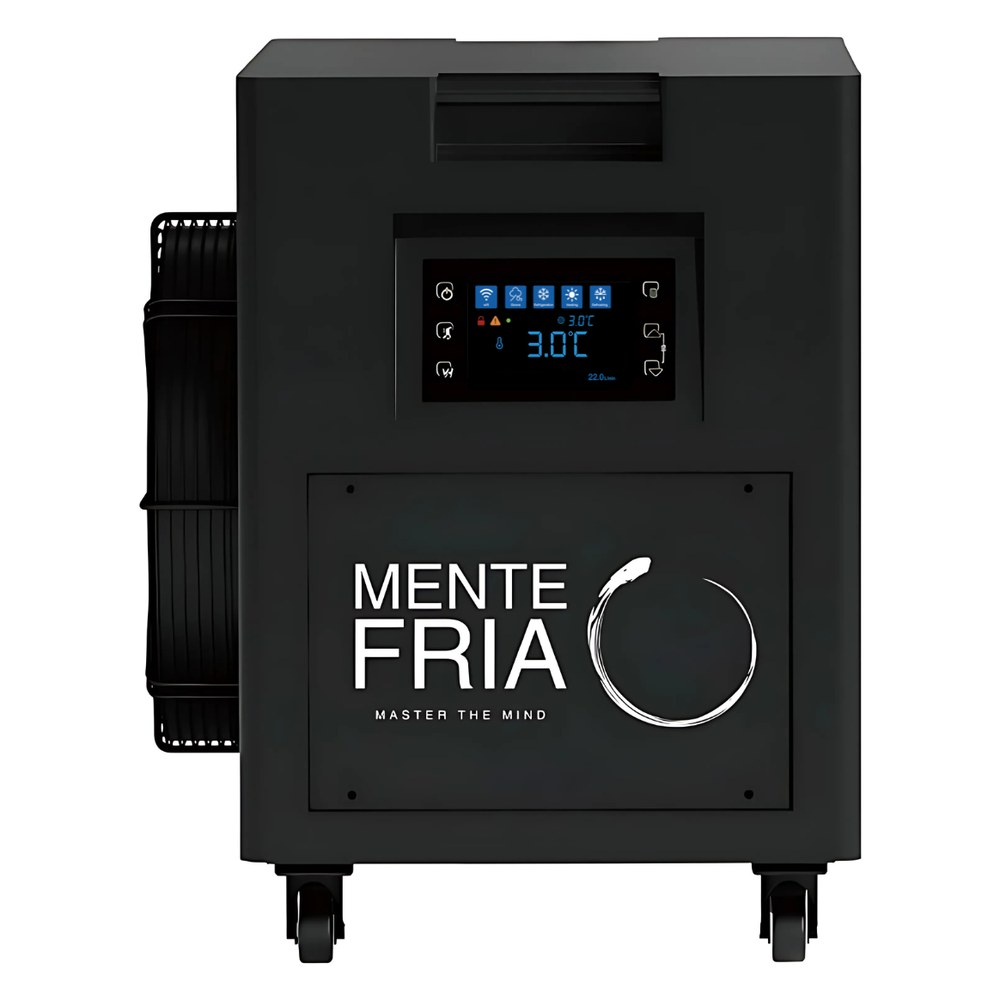
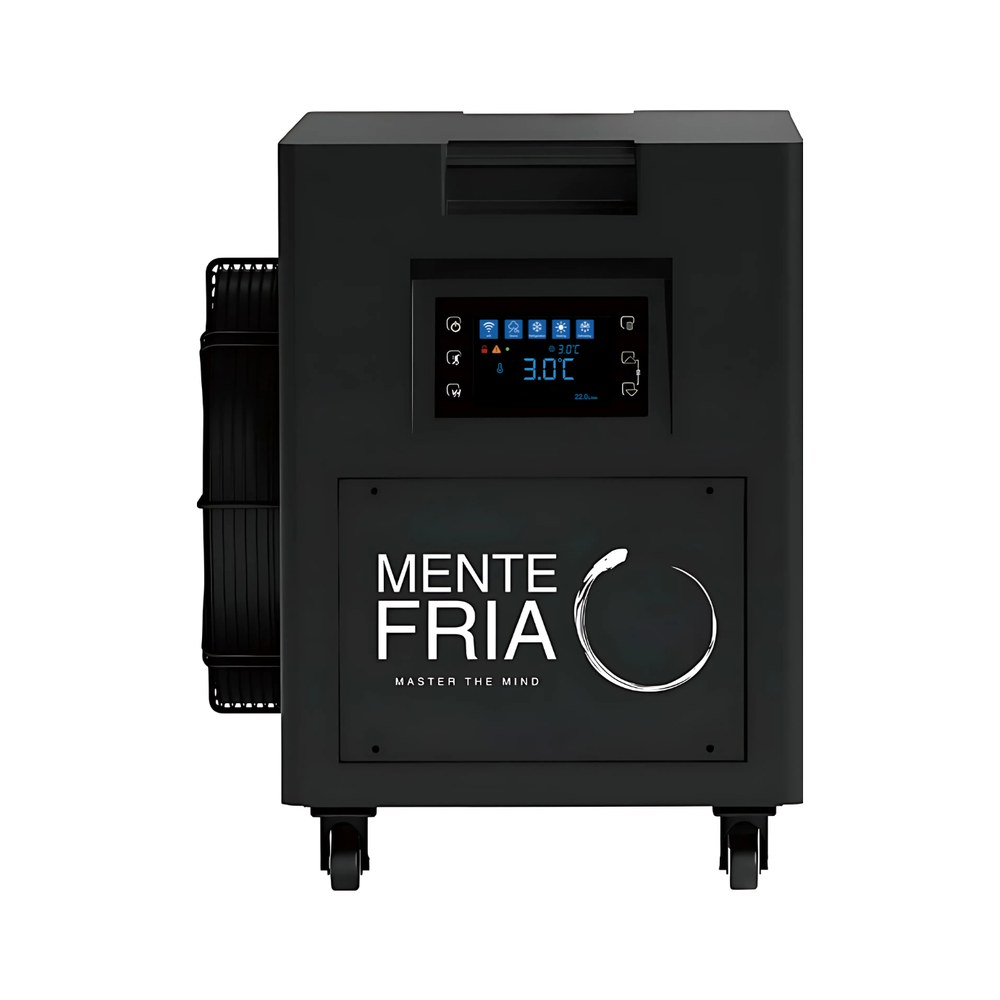
Aire alrededor de los motores y se regresa la foto de la MF ONE
Saul: las de motor se ven cortadas y la del Motor MF ONE anterior estaba bien.

Las dos de motor quedaban pegadas a las cuatro orillas del archivo, asi que en
una miniatura de 80px parecian recortadas aunque estuvieran completas. Ahora el
equipo va con 14% de aire alrededor dentro del cuadro.

La del Motor MF ONE vuelve a ser la de antes.

diff --git a/src/components/ComparadorMotores.tsx b/src/components/ComparadorMotores.tsx
@@ -38,14 +38,15 @@ type Valor = { t: string; ok?: boolean } | null; // null = no incluye
 type Fila = { label: string; valores: Record<MotorId, Valor> };
 
 const MOTORES: Record<MotorId, { nombre: string; img: string }> = {
-  /* Las tres sobre blanco y con el equipo completo dentro del cuadro. Antes
-     eran recortes con franjas negras a los lados (Saul, sep 2026: "espantosas
-     por los bordes negros"). Las dos de motor salen de la carpeta que dejo con
-     una foto por color; la de la MF ONE es el render de ficha, porque ahi el
-     motor va integrado y no hay pieza suelta que ensenar. */
+  /* Las dos de motor salen de la carpeta que dejo Saul con una foto por color
+     (sep 2026): antes eran recortes con franjas negras a los lados. Van sobre
+     blanco, en cuadrado y con 14% de aire alrededor del equipo, para que en la
+     miniatura no se vean pegadas a la orilla.
+     La de la MF ONE se queda como estaba: se probo el render de ficha y Saul
+     prefirio la anterior. */
   pro: { nombre: "Motor Pro 2.0", img: "/images/motor-2-0-blanco.jpg" },
   premium: { nombre: "Motor Premium 2.0", img: "/images/motor-2-0-negro.jpg" },
-  mfone: { nombre: "Motor MF ONE", img: "/images/pdp-one-negro.png" },
+  mfone: { nombre: "Motor MF ONE", img: "/images/mfone-gallery/negro/01.jpg" },
 };
 
 const FILAS: Fila[] = [

diff --git a/docs/cambios-rafa-2026-09-23.md b/docs/cambios-rafa-2026-09-23.md
@@ -40,7 +40,7 @@ Veinte. Lo de abajo de la segunda tabla ya está en el tema borrador.
 | 23 | Cambiar la foto del Pro Deck del bloque Complemento por una donde solo salga el escalón con sus letras MIND OVER BODY. | Recortadas de los renders: la negra de negro-1 y la blanca de blanco-2, que es donde el escalón sale separado de la tina. Puestas sobre el mismo gris del render en formato 1.8 a 1, que es el de la caja de la tarjeta. | 2 imágenes + mf-one |
 | 24 | En el resultado del quiz la foto de la MF ONE blanca tiene fondo gris y desentona. | Era la única de las seis con fondo. Se rehicieron las dos de la MF ONE a partir de los renders de ficha, que están sobre blanco, así que ahora las seis van sobre blanco y la pareja negra y blanca es el mismo render en dos colores. | 2 imágenes |
 | 25 | El pie de página en teléfono está sobresaturado, mucha información desde el inicio y mal acomodada. | Los cinco grupos pasan a estar plegados: se ve la estructura y se abre lo que se busca. Antes eran 24 enlaces de golpe en dos columnas de distinto largo, con huecos entre ellas. El pie baja de 1239 a 594px. En computadora no cambia nada. | Footer.tsx, metal.css |
-| 26 | Las fotos de los motores en el comparador se ven espantosas por los bordes negros. Dejó una carpeta con una foto por color. | Las dos fotos nuevas, recortadas al ras y centradas sobre blanco en cuadrado. Y la caja deja de recortar: pasa de object-cover a object-contain, que era lo que dejaba las franjas a los lados. La tercera, la del Motor MF ONE, era un recorte oscuro de la galería; ahora es el render de ficha sobre blanco. | 2 imágenes + ComparadorMotores |
+| 26 | Las fotos de los motores en el comparador se ven espantosas por los bordes negros. Dejó una carpeta con una foto por color. | Las dos fotos nuevas, recortadas al ras y centradas sobre blanco en cuadrado. Y la caja deja de recortar: pasa de object-cover a object-contain, que era lo que dejaba las franjas a los lados. Las dos llevan 14% de aire alrededor del equipo para que en la miniatura no queden pegadas a la orilla. La del Motor MF ONE se queda como estaba: se probó el render de ficha y Saul prefirió la anterior. | 2 imágenes + ComparadorMotores |
 
 ---
 
